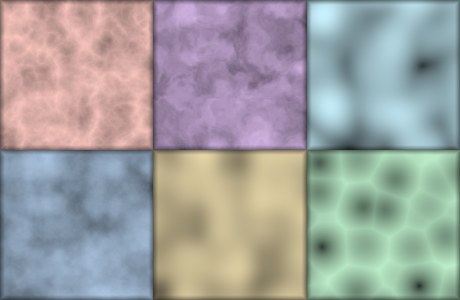
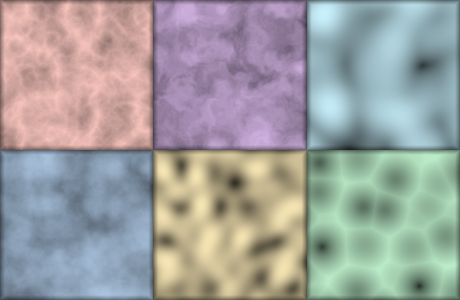
Simplex + tileable noise; texture-system docs (P8)
- procedural/noise.py: simplex3 (Perlin/Gustavson-Ashima port to Warp — fewer
  directional artifacts) and value_tiled3 (seamlessly periodic value noise for
  tileable textures / LUT baking).
- Exported from procedural; noise_gallery now shows simplex; docs/engine.md lists
  the new noise + the textures module.
- tests/test_procedural.py: simplex3 range/finite; value_tiled3 periodicity
  (max diff 1e-6). ALL PASSED.

Verified on CPU: simplex renders as clean organic noise; tileable is exactly
periodic. docs/engine/earth_map.png preview added.

Claude-Session: https://claude.ai/code/session_01Sg2M1pJjrHFa9nHHDGVdLP

Changed region(s): [[0.3348, 0.48, 0.6696, 1.0]]

diff --git a/warp_shaders/procedural/noise.py b/warp_shaders/procedural/noise.py
@@ -238,6 +238,145 @@ def domain_warp3(p: wp.vec3, octaves: int, amount: float) -> float:
 
 
 @wp.func
+def _floor4(v: wp.vec4) -> wp.vec4:
+    return wp.vec4(wp.floor(v[0]), wp.floor(v[1]), wp.floor(v[2]), wp.floor(v[3]))
+
+
[email redacted]
+def _stepf(edge: float, x: float) -> float:
+    if x >= edge:
+        return 1.0
+    return 0.0
+
+
[email redacted]
+def _mod289_3(x: wp.vec3) -> wp.vec3:
+    return x - wp.vec3(wp.floor(x[0] / 289.0), wp.floor(x[1] / 289.0), wp.floor(x[2] / 289.0)) * 289.0
+
+
[email redacted]
+def _mod289_4(x: wp.vec4) -> wp.vec4:
+    return x - _floor4(x * (1.0 / 289.0)) * 289.0
+
+
[email redacted]
+def _permute(x: wp.vec4) -> wp.vec4:
+    return _mod289_4(wp.cw_mul(x * 34.0 + wp.vec4(1.0, 1.0, 1.0, 1.0), x))
+
+
[email redacted]
+def _taylor_inv_sqrt(r: wp.vec4) -> wp.vec4:
+    return wp.vec4(1.79284291400159, 1.79284291400159, 1.79284291400159, 1.79284291400159) - r * 0.85373472095314
+
+
[email redacted]
+def simplex3(v: wp.vec3) -> float:
+    """Perlin simplex noise (Gustavson/Ashima port), ~[-1,1]. Fewer directional
+    artifacts than value/Perlin noise."""
+    cx = 0.166666666667
+    cy = 0.333333333333
+    i = wp.vec3(wp.floor(v[0] + wp.dot(v, wp.vec3(cy, cy, cy))),
+                wp.floor(v[1] + wp.dot(v, wp.vec3(cy, cy, cy))),
+                wp.floor(v[2] + wp.dot(v, wp.vec3(cy, cy, cy))))
+    x0 = v - i + wp.vec3(wp.dot(i, wp.vec3(cx, cx, cx)), wp.dot(i, wp.vec3(cx, cx, cx)),
+                         wp.dot(i, wp.vec3(cx, cx, cx)))
+
+    g = wp.vec3(_stepf(x0[1], x0[0]), _stepf(x0[2], x0[1]), _stepf(x0[0], x0[2]))
+    l = wp.vec3(1.0, 1.0, 1.0) - g
+    lzxy = wp.vec3(l[2], l[0], l[1])
+    i1 = wp.vec3(wp.min(g[0], lzxy[0]), wp.min(g[1], lzxy[1]), wp.min(g[2], lzxy[2]))
+    i2 = wp.vec3(wp.max(g[0], lzxy[0]), wp.max(g[1], lzxy[1]), wp.max(g[2], lzxy[2]))
+
+    x1 = x0 - i1 + wp.vec3(cx, cx, cx)
+    x2 = x0 - i2 + wp.vec3(cy, cy, cy)
+    x3 = x0 - wp.vec3(0.5, 0.5, 0.5)
+
+    i = _mod289_3(i)
+    p = _permute(_permute(_permute(
+        wp.vec4(i[2] + 0.0, i[2] + i1[2], i[2] + i2[2], i[2] + 1.0))
+        + wp.vec4(i[1] + 0.0, i[1] + i1[1], i[1] + i2[1], i[1] + 1.0))
+        + wp.vec4(i[0] + 0.0, i[0] + i1[0], i[0] + i2[0], i[0] + 1.0))
+
+    ns_x = 0.285714285714
+    ns_y = -0.928571428571
+    ns_z = 0.142857142857
+    j = p - 49.0 * _floor4(p * (ns_z * ns_z))
+    x_ = _floor4(j * ns_z)
+    y_ = _floor4(j - 7.0 * x_)
+    xx = x_ * ns_x + wp.vec4(ns_y, ns_y, ns_y, ns_y)
+    yy = y_ * ns_x + wp.vec4(ns_y, ns_y, ns_y, ns_y)
+    h = wp.vec4(1.0, 1.0, 1.0, 1.0) - wp.vec4(wp.abs(xx[0]), wp.abs(xx[1]), wp.abs(xx[2]), wp.abs(xx[3])) \
+        - wp.vec4(wp.abs(yy[0]), wp.abs(yy[1]), wp.abs(yy[2]), wp.abs(yy[3]))
+
+    b0 = wp.vec4(xx[0], xx[1], yy[0], yy[1])
+    b1 = wp.vec4(xx[2], xx[3], yy[2], yy[3])
+    s0 = _floor4(b0) * 2.0 + wp.vec4(1.0, 1.0, 1.0, 1.0)
+    s1 = _floor4(b1) * 2.0 + wp.vec4(1.0, 1.0, 1.0, 1.0)
+    # sh = -step(h, 0): -1 where h < 0, else 0
+    sh0 = float(0.0)
+    if h[0] < 0.0:
+        sh0 = -1.0
+    sh1 = float(0.0)
+    if h[1] < 0.0:
+        sh1 = -1.0
+    sh2 = float(0.0)
+    if h[2] < 0.0:
+        sh2 = -1.0
+    sh3 = float(0.0)
+    if h[3] < 0.0:
+        sh3 = -1.0
+
+    a0 = wp.vec4(b0[0] + s0[0] * sh0, b0[2] + s0[2] * sh0, b0[1] + s0[1] * sh1, b0[3] + s0[3] * sh1)
+    a1 = wp.vec4(b1[0] + s1[0] * sh2, b1[2] + s1[2] * sh2, b1[1] + s1[1] * sh3, b1[3] + s1[3] * sh3)
+
+    p0 = wp.vec3(a0[0], a0[1], h[0])
+    p1 = wp.vec3(a0[2], a0[3], h[1])
+    p2 = wp.vec3(a1[0], a1[1], h[2])
+    p3 = wp.vec3(a1[2], a1[3], h[3])
+
+    norm = _taylor_inv_sqrt(wp.vec4(wp.dot(p0, p0), wp.dot(p1, p1), wp.dot(p2, p2), wp.dot(p3, p3)))
+    p0 = p0 * norm[0]
+    p1 = p1 * norm[1]
+    p2 = p2 * norm[2]
+    p3 = p3 * norm[3]
+
+    m = wp.vec4(wp.max(0.6 - wp.dot(x0, x0), 0.0), wp.max(0.6 - wp.dot(x1, x1), 0.0),
+                wp.max(0.6 - wp.dot(x2, x2), 0.0), wp.max(0.6 - wp.dot(x3, x3), 0.0))
+    m = wp.cw_mul(m, m)
+    m = wp.cw_mul(m, m)
+    return 42.0 * wp.dot(m, wp.vec4(wp.dot(p0, x0), wp.dot(p1, x1), wp.dot(p2, x2), wp.dot(p3, x3)))
+
+
[email redacted]
+def _modp(x: float, m: float) -> float:
+    return x - wp.floor(x / m) * m
+
+
[email redacted]
+def value_tiled3(p: wp.vec3, period: float) -> float:
+    """Value noise that tiles seamlessly with the given integer period."""
+    i = wp.vec3(wp.floor(p[0]), wp.floor(p[1]), wp.floor(p[2]))
+    f = p - i
+    u = wp.vec3(_quintic(f[0]), _quintic(f[1]), _quintic(f[2]))
+
+    m = period
+    a = hash31(wp.vec3(_modp(i[0], m), _modp(i[1], m), _modp(i[2], m)))
+    b = hash31(wp.vec3(_modp(i[0] + 1.0, m), _modp(i[1], m), _modp(i[2], m)))
+    c = hash31(wp.vec3(_modp(i[0], m), _modp(i[1] + 1.0, m), _modp(i[2], m)))
+    d = hash31(wp.vec3(_modp(i[0] + 1.0, m), _modp(i[1] + 1.0, m), _modp(i[2], m)))
+    e = hash31(wp.vec3(_modp(i[0], m), _modp(i[1], m), _modp(i[2] + 1.0, m)))
+    g = hash31(wp.vec3(_modp(i[0] + 1.0, m), _modp(i[1], m), _modp(i[2] + 1.0, m)))
+    hh = hash31(wp.vec3(_modp(i[0], m), _modp(i[1] + 1.0, m), _modp(i[2] + 1.0, m)))
+    k = hash31(wp.vec3(_modp(i[0] + 1.0, m), _modp(i[1] + 1.0, m), _modp(i[2] + 1.0, m)))
+
+    ab = wp.lerp(a, b, u[0])
+    cd = wp.lerp(c, d, u[0])
+    eg = wp.lerp(e, g, u[0])
+    hk = wp.lerp(hh, k, u[0])
+    return wp.lerp(wp.lerp(ab, cd, u[1]), wp.lerp(eg, hk, u[1]), u[2])
+
+
[email redacted]
 def curl3(p: wp.vec3) -> wp.vec3:
     """Divergence-free flow field = curl of a noise potential (Bridson 2007)."""
     e = float(0.1)

diff --git a/tests/test_procedural.py b/tests/test_procedural.py
@@ -9,7 +9,8 @@ import numpy as np
 import warp as wp
 
 from warp_shaders.procedural.noise import (
-    billow3, domain_warp3, fbm3, noised3, perlin3, ridged3, value3, worley3,
+    billow3, domain_warp3, fbm3, noised3, perlin3, ridged3, simplex3, value3,
+    value_tiled3, worley3,
 )
 from warp_shaders.procedural.sdf import op_smooth_union, sd_box, sd_sphere
 
@@ -36,7 +37,15 @@ def _scalar(pts: wp.array(dtype=wp.vec3), which: int, out: wp.array(dtype=float)
         v = billow3(p, 6)
     elif which == 6:
         v = domain_warp3(p, 5, 1.0)
+    elif which == 7:
+        v = simplex3(p)
     out[i] = v
+
+
[email redacted]
+def _tiled(pts: wp.array(dtype=wp.vec3), period: float, out: wp.array(dtype=float)):
+    i = wp.tid()
+    out[i] = value_tiled3(pts[i], period)
 
 
 @wp.kernel
@@ -66,9 +75,9 @@ def test_noise_finite_and_ranged():
     rng = np.random.default_rng(0)
     pts = (rng.random((4096, 3)) * 20.0 - 10.0).astype(np.float32)
     ranges = {0: (0, 1), 1: (-1.2, 1.2), 2: (0, 1.9), 3: (0, 1),
-              4: (0, 1), 5: (0, 1), 6: (0, 1)}
+              4: (0, 1), 5: (0, 1), 6: (0, 1), 7: (-1.1, 1.1)}
     names = {0: "value3", 1: "perlin3", 2: "worley3", 3: "fbm3",
-             4: "ridged3", 5: "billow3", 6: "domain_warp3"}
+             4: "ridged3", 5: "billow3", 6: "domain_warp3", 7: "simplex3"}
     for which, (lo, hi) in ranges.items():
         v = _sample_scalar(pts, which)
         assert np.isfinite(v).all(), f"{names[which]}: non-finite"
@@ -122,11 +131,30 @@ def test_sdf():
     print("  sdf primitives+ops: OK")
 
 
+def test_tileable():
+    rng = np.random.default_rng(3)
+    period = 4.0
+    pts = (rng.random((2048, 3)) * 8.0 - 4.0).astype(np.float32)
+    d0 = wp.array(pts, dtype=wp.vec3, device=_DEV)
+    o0 = wp.zeros(len(pts), dtype=float, device=_DEV)
+    wp.launch(_tiled, dim=len(pts), inputs=[d0, period, o0], device=_DEV)
+    # shift by exactly one period on each axis -> must match
+    shifted = pts + np.array([period, period, period], np.float32)
+    d1 = wp.array(shifted, dtype=wp.vec3, device=_DEV)
+    o1 = wp.zeros(len(pts), dtype=float, device=_DEV)
+    wp.launch(_tiled, dim=len(pts), inputs=[d1, period, o1], device=_DEV)
+    wp.synchronize_device(_DEV)
+    err = np.abs(o0.numpy() - o1.numpy()).max()
+    assert err < 1e-4, f"value_tiled3 not periodic: max diff {err:.5f}"
+    print(f"  value_tiled3 periodicity: OK (max diff {err:.6f})")
+
+
 def main():
     print("procedural toolkit tests:")
     test_noise_finite_and_ranged()
     test_analytic_gradient()
     test_sdf()
+    test_tileable()
     print("ALL PASSED")
 
 

diff --git a/warp_shaders/procedural/__init__.py b/warp_shaders/procedural/__init__.py
@@ -3,7 +3,7 @@
 from .hash import fract, hash11, hash21, hash22, hash31, hash33
 from .noise import (
     billow3, curl3, domain_warp3, fbm3, fbm_perlin3, noised3, perlin3,
-    ridged3, value3, worley3, worley3_f2,
+    ridged3, simplex3, value3, value_tiled3, worley3, worley3_f2,
 )
 from .sdf import (
     op_intersect, op_onion, op_round, op_smooth_intersect, op_smooth_subtract,
@@ -13,8 +13,8 @@ from .sdf import (
 
 __all__ = [
     "fract", "hash11", "hash21", "hash22", "hash31", "hash33",
-    "value3", "noised3", "perlin3", "worley3", "worley3_f2", "fbm3",
-    "fbm_perlin3", "ridged3", "billow3", "domain_warp3", "curl3",
+    "value3", "noised3", "perlin3", "simplex3", "value_tiled3", "worley3",
+    "worley3_f2", "fbm3", "fbm_perlin3", "ridged3", "billow3", "domain_warp3", "curl3",
     "sd_sphere", "sd_box", "sd_round_box", "sd_torus", "sd_cylinder",
     "sd_capsule", "sd_plane", "sd_ellipsoid", "op_union", "op_intersect",
     "op_subtract", "op_smooth_union", "op_smooth_subtract",

diff --git a/warp_shaders/scenes/noise_gallery.py b/warp_shaders/scenes/noise_gallery.py
@@ -8,7 +8,7 @@ tile for legibility. Doubles as the P1 verification scene.
 import warp as wp
 
 from ..procedural import (
-    curl3, domain_warp3, fbm3, perlin3, ridged3, worley3,
+    curl3, domain_warp3, fbm3, ridged3, simplex3, worley3,
 )
 from ..procedural.hash import fract
 from ..scene import Scene
@@ -39,7 +39,7 @@ def render_kernel(img: wp.array2d(dtype=wp.vec3), width: int, height: int,
         val = fbm3(p, 6)
         tint = wp.vec3(0.55, 0.75, 1.0)
     elif idx == 1:
-        val = perlin3(p) * 0.5 + 0.5
+        val = simplex3(p) * 0.5 + 0.5
         tint = wp.vec3(1.0, 0.85, 0.5)
     elif idx == 2:
         val = wp.clamp(worley3(p), 0.0, 1.0)

diff --git a/docs/engine.md b/docs/engine.md
@@ -12,8 +12,11 @@ warp_shaders/
   procedural/           # building blocks
     hash.py             hash11/21/22/31/33            (McGuire)
     noise.py            value3, noised3 (value + analytic gradient), perlin3,
-                        worley3 / worley3_f2, fbm3, fbm_perlin3, ridged3, billow3,
-                        domain_warp3, curl3           (IQ, Gustavson, Worley, Bridson)
+                        simplex3, value_tiled3 (seamless), worley3 / worley3_f2,
+                        fbm3, fbm_perlin3, ridged3, billow3, domain_warp3, curl3
+                                                      (IQ, Gustavson, Worley, Bridson)
+  textures.py           sample2d / sample_equirect (bilinear over wp.array2d),
+                        to_texture, load_equirect (PIL) — portable maps + LUTs
     sdf.py              sd_sphere/box/round_box/torus/cylinder/capsule/plane/ellipsoid,
                         op_union/intersect/subtract/smooth_*/round/onion   (IQ)
   engine/